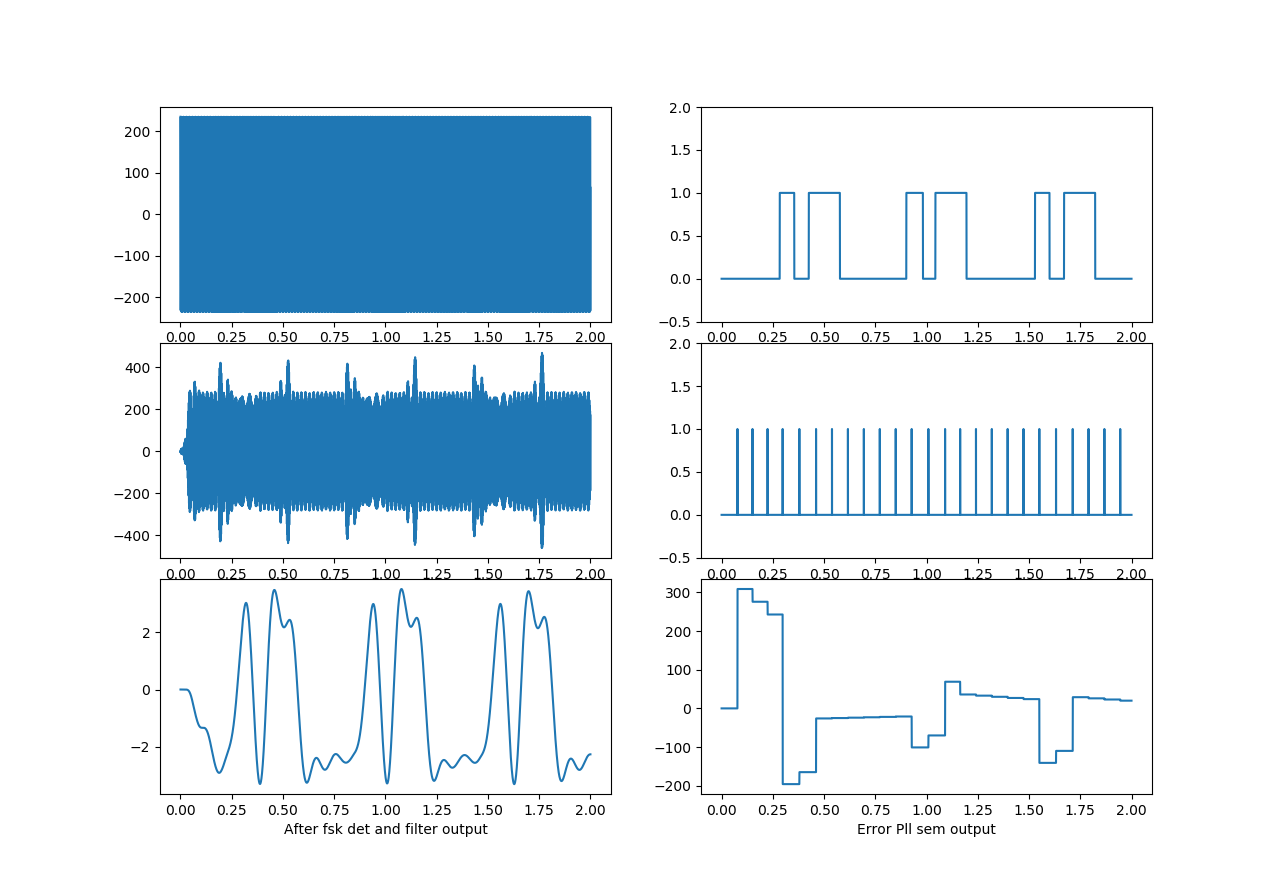
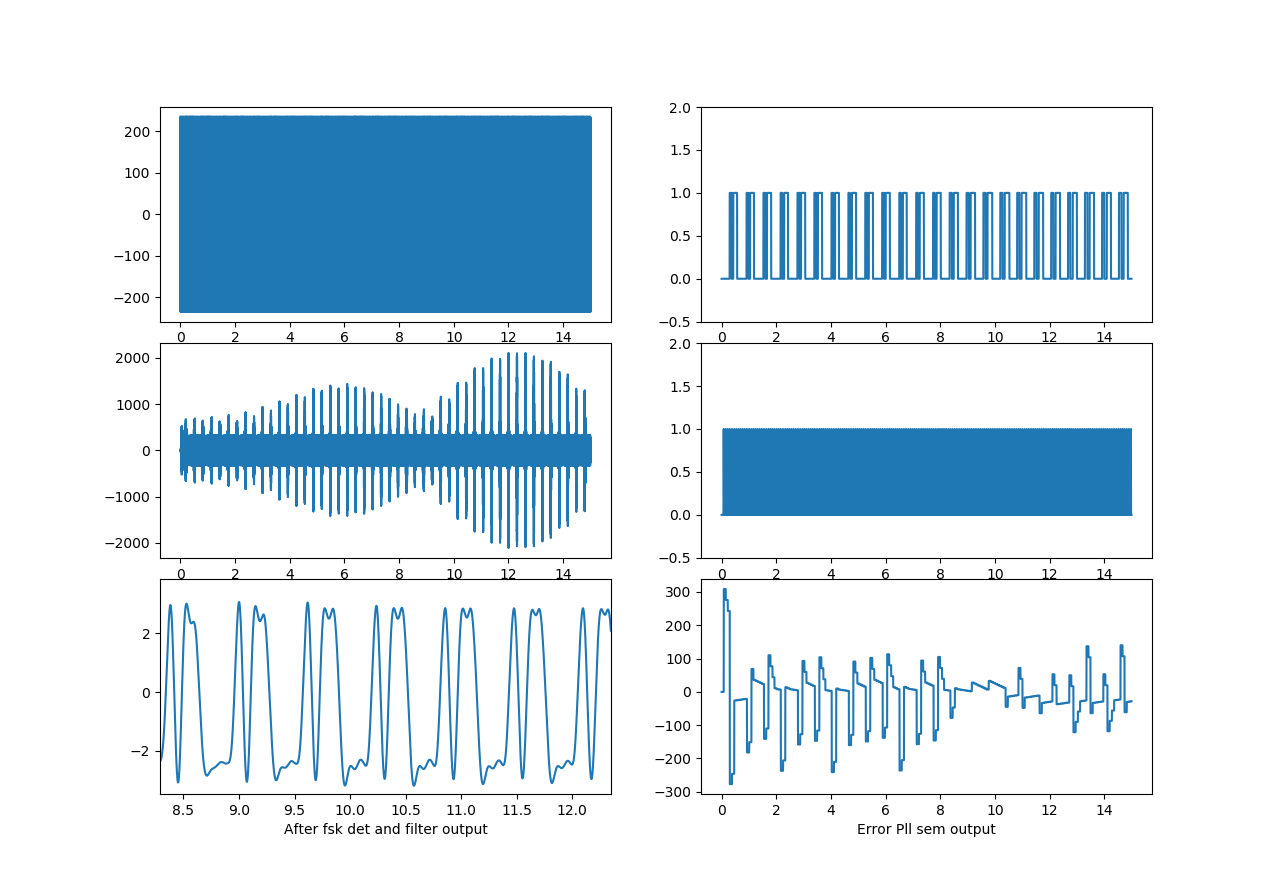
заработал измеритель уровня

diff --git a/coeff.py b/coeff.py
@@ -1,5 +1,3 @@
-h_lpf_1000 = [ -0.0416, -0.0865, 0.0000, 0.2018, 0.3742, 0.3742, 0.2018, 0.0000, -0.0865, -0.0416 ]	#coeff
-
 h_bpf_525 = [-0.0009406690280210321, 0.001030988666678806, 0.0006877051826314363, 0.0004938761755986772, 0.00036539234565545584, 0.00025750815145807247, 0.0001498717552802693, 3.899457114231366e-05, -6.891503933040993e-05, -0.00016162273427714163, -0.00022635420391062082, -0.0002522919622727985, -0.00023435923210231345, -0.0001739004233902038, -8.000465877416353e-05, 3.2708152304568696e-05, 0.00014507147504572637, 0.00023780306941925612, 0.00029358760861096663, 0.00030135745765435184, 0.0002574537732650227, 0.00016753881760579997, 4.526078363926078e-05, -9.002692010233958e-05, -0.0002134183007102509, -0.00030762899976401496, -0.0003483824445812912, -0.00033399778945185365, -0.00026154660272879405, -0.00013998617033988644, 7.855233051716351e-06, 0.0001578666708345268, 0.0002861060506681877, 0.00036994295676018524, 0.000392140912294843, 0.0003473767347716068, 0.00024234646518884757, 9.447420156283759e-05, -7.256094857000851e-05, -0.0002310947760967492, -0.00035423774939062017, -0.00041975615882800747, -0.00041511575135190124, -0.00033946650791485586, -0.0002048975619584545, -3.339613518388166e-05, 0.0001458717288421339, 0.00030292673564907813, 0.00041001375776583194, 0.0004497344329234545, 0.0004127891947480055, 0.00030681743427357156, 0.00014765887870568065, -3.7559326064462266e-05, -0.0002169028607673046, -0.00036066664518625224, -0.0004443345593301432, -0.0004527285355309871, -0.00038497850329678946, -0.0002527793913184419, -7.828267679979551e-05, 0.00010910424168719766, 0.00027703771836456764, 0.0003971575059152439, 0.00044961366954222827, 0.00042644177048492397, 0.00033183510059992894, 0.00018255458475920712, 4.648758166684924e-06, -0.0001710444196296498, -0.0003149056125659054, -0.00040343126891153485, -0.00042266139365564124, -0.0003710302921576035, -0.00025816461532984997, -0.00010546154536073297, 6.0598451502438984e-05, 0.00021117524031746934, 0.0003210439804153598, 0.00037375490126413734, 0.0003621100905510583, 0.0002906254393909703, 0.00017414975775260607, 3.422587242914968e-05, -0.00010446299370023043, -0.00021792281662471311, -0.00028826902577142434, -0.0003061833372646162, -0.0002718677857849578, -0.000194612208805999, -9.100010731380036e-05, 1.883107613198892e-05, 0.00011537176526905295, 0.0001831332647800833, 0.00021269999894121968, 0.0002027739028089379, 0.0001594957042849556, 9.519449741176027e-05, 2.417316533711287e-05, -3.876174469893707e-05, -8.287276810789641e-05, -0.00010188632117093905, -9.616627565984582e-05, -7.211085181479081e-05, -3.919637661626294e-05, -8.445457381368177e-06, 1.0801817314475166e-05, 1.3428914965893206e-05, -8.659139593659385e-07, -2.697342120454218e-05, -5.5141065973965744e-05, -7.424541914405379e-05, -7.452380179141468e-05, -5.004219227233795e-05, -1.0170459740334661e-06, 6.551208758395917e-05, 0.0001367797215916435, 0.00019654647582000766, 0.00022831155797587007, 0.00021887994415805074, 0.00016270252545939608, 6.337271654398031e-05, -6.543849169002628e-05, -0.00020253977682311653, -0.0003213259622476502, -0.00039610679953297717, -0.00040653984686906037, -0.0003425908240869324, -0.00020770497577877545, -1.8967516446003092e-05, 0.0001940946324525579, 0.0003940344543520186, 0.0005427656333854777, 0.0006079633008931047, 0.0005698931803239697, 0.0004263664075598221, 0.0001943537047941373, -9.161946988643253e-05, -0.0003840009805127023, -0.0006308271359286893, -0.0007845567668914983, -0.0008110537298760313, -0.0006965424696710814, -0.00045182380933964637, -0.00011189900197233174, 0.00026919343057733966, 0.0006265700911980985, 0.000895838682720085, 0.0010243988673632393, 0.000981951826961002, 0.0007664600948104746, 0.00040624771755364453, -4.286911392950587e-05, -0.0005069937661575303, -0.0009056810949312508, -0.0011664556767218789, -0.00123768431978923, -0.0010983985425583151, -0.0007636074594548716, -0.0002833996710138696, 0.00026516470997033125, 0.0007897953739454265, 0.0011986650065564824, 0.0014167410502029293, 0.001399437815809782, 0.0011414537701006024, 0.0006792730627119023, 8.57228499239319e-05, -0.0005411775277893971, -0.0010947681511180513, -0.001477405836252663, -0.0016185956866205712, -0.001487333501329742, -0.0010989875257574457, -0.0005132742543241121, 0.0001742617512981398, 0.0008482040459860331, 0.0013930181223541175, 0.0017125480108818138, 0.0017474048997856877, 0.0014860789977856033, 0.0009674529297054366, 0.00027543464219324234, -0.000474959819888891, -0.001156783077327793, -0.001652601965380396, -0.001875234904721846, -0.0017833740454897824, -0.0013886199688957373, -0.0007546130673952072, 1.3345494503242284e-05, 0.0007860567493804323, 0.001432261778639689, 0.0018413142257421222, 0.001942111906705399, 0.0017159217900606445, 0.0011995021014319439, 0.0004794576436570909, -0.00032270500354103374, -0.001071235973309277, -0.0016394674056043135, -0.001931417246028124, -0.0018978986943619558, -0.0015455982767047188, -0.0009354642775174921, -0.0001718832724952623, 0.0006150688219870278, 0.0012922913839846994, 0.001746447398178726, 0.001903059891171819, 0.0017391578782733842, 0.0012865569824882302, 0.0006255811730751465, -0.00012889501024174513, -0.0008481148546950253, -0.001411642131680924, -0.0017275385904133914, -0.001747933025496071, -0.001476335780800326, -0.0009660609771597575, -0.0003095063017206981, 0.00037843900036026753, 0.0009809117625374703, 0.0013992150773238963, 0.0015693167593990396, 0.0014719681709355502, 0.0011342912376713754, 0.0006237417302165779, 3.430220155848664e-05, -0.0005305973872484259, -0.0009765625399134423, -0.0012346912231889686, -0.0012723318034931121, -0.0010966857741894719, -0.000751846774156418, -0.0003086465336449699, 0.0001495545746114104, 0.0005427002470424595, 0.0008086401686167061, 0.0009131209358470703, 0.0008538692455495847, 0.0006590822251734741, 0.00037910839784274114, 7.528717531678111e-05, -0.00019330651484501132, -0.0003811571960549451, -0.0004649383289435083, -0.00044603418475929954, -0.0003480578826758978, -0.00020951554498745053, -7.37258631488141e-05, 2.2056370237893844e-05, 5.584079911950357e-05, 2.5842666219209887e-05, -4.957960828254229e-05, -0.00013667971405966753, -0.00019575244252620404, -0.0001915902951493138, -0.00010375570699470353, 6.594639328631573e-05, 0.00029125486753820177, 0.0005254735307162032, 0.0007099916870738335, 0.0007874624439792738, 0.0007155199071447571, 0.0004788764463692324, 9.687031077581544e-05, -0.0003764390937634988, -0.0008591500119734484, -0.00125524693525484, -0.0014729389220174806, -0.0014442960931925113, -0.0011418362751141322, -0.0005884683084261262, 0.00014123395252107866, 0.0009304553281345661, 0.0016382822949885534, 0.0021247083859555734, 0.0022771186238237963, 0.0020344658399337433, 0.001403642850752356, 0.0004639222962092241, -0.0006417320046646624, -0.00172769195015883, -0.002596850057255322, -0.0030757921091641494, -0.003048247068680944, -0.002480938201473811, -0.0014353727540801847, -6.31169241966979e-05, 0.0014150778072855286, 0.002744844109634926, 0.0036813396936121855, 0.004034185445693639, 0.0037048064127674666, 0.002709588726724434, 0.001183593448935531, -0.0006364426510182794, -0.0024484338507099798, -0.003935150461000843, -0.004819348863399439, -0.0049149177879118135, -0.004164352526880832, -0.0026555652689977845, -0.0006135422897411727, 0.0016327723253179165, 0.0037030657396181273, 0.005230017878654522, 0.005924435103980721, 0.005629022682731594, 0.004351638984824035, 0.0022713267931016574, -0.00028603387214644815, -0.0028984068421345354, -0.005117059322547557, -0.006544077628966117, -0.006902953902022928, -0.006091513870713025, -0.00420597458440735, -0.0015317079817549768, 0.0014995283105953968, 0.0043792333304304345, 0.006607644179588601, 0.007780340416510343, 0.007661233547821895, 0.006229048457007684, 0.0036878207828329934, 0.0004385864610034367, -0.0029836930887104274, -0.0059983340352373895, -0.00807739267407933, -0.00883844051144782, -0.008114323623650322, -0.005987820173987199, -0.002784336294589293, 0.0009773179135405111, 0.004669466339935768, 0.007660121615658299, 0.009421492707436687, 0.009623310813651545, 0.0081938572856073, 0.0053386416235438865, 0.001511524087553651, -0.0026574345820723974, -0.0064657716269365915, -0.009257451060824307, -0.010536017138158573, -0.010052975384310789, -0.007855078176402654, -0.004282400732102743, 8.429231134619993e-05, 0.0045177974275138885, 0.008266082524279378, 0.010680244183003115, 0.011327165929614707, 0.010066986442468118, 0.007081873626484879, 0.002850303655204316, -0.0019295003893524784, -0.006455422041861799, -0.009956469309205265, -0.011824256333516822, -0.011719089664507442, -0.00963181249028059, -0.005889306435167585, -0.0011039701593332715, 0.003927202516290899, 0.008355622533241796, 0.01142480093393603, 0.012599954178190868, 0.01166143146085803, 0.008745377598640537, 0.0043244612260162265, -0.0008689594256425026, -0.005964589285631279, -0.01010052770560613, -0.012569585341644512, -0.012940679180918877, -0.011134140207852132, -0.007438235362049703, -0.0024629099670725714, 0.0029611427176058185, 0.007921772704966558, 0.011579208127906478, 0.01330879399678175, 0.012808026828130354, 0.010149871825220888, 0.005771975618512235, 0.00040420290594081086, -0.0050529564618197334, -0.009680486543728646, -0.01269606061595963, -0.013586739610810368, -0.012196687847271478, -0.008754383179382215, -0.003834996317813393, 0.0017361239449592654, 0.007022440498111838, 0.011134359841366213, 0.013379406461555403, 0.013379406461555403, 0.011134359841366213, 0.007022440498111838, 0.0017361239449592654, -0.003834996317813393, -0.008754383179382215, -0.012196687847271478, -0.013586739610810368, -0.01269606061595963, -0.009680486543728646, -0.0050529564618197334, 0.00040420290594081086, 0.005771975618512235, 0.010149871825220888, 0.012808026828130354, 0.01330879399678175, 0.011579208127906478, 0.007921772704966558, 0.0029611427176058185, -0.0024629099670725714, -0.007438235362049703, -0.011134140207852132, -0.012940679180918877, -0.012569585341644512, -0.01010052770560613, -0.005964589285631279, -0.0008689594256425026, 0.0043244612260162265, 0.008745377598640537, 0.01166143146085803, 0.012599954178190868, 0.01142480093393603, 0.008355622533241796, 0.003927202516290899, -0.0011039701593332715, -0.005889306435167585, -0.00963181249028059, -0.011719089664507442, -0.011824256333516822, -0.009956469309205265, -0.006455422041861799, -0.0019295003893524784, 0.002850303655204316, 0.007081873626484879, 0.010066986442468118, 0.011327165929614707, 0.010680244183003115, 0.008266082524279378, 0.0045177974275138885, 8.429231134619993e-05, -0.004282400732102743, -0.007855078176402654, -0.010052975384310789, -0.010536017138158573, -0.009257451060824307, -0.0064657716269365915, -0.0026574345820723974, 0.001511524087553651, 0.0053386416235438865, 0.0081938572856073, 0.009623310813651545, 0.009421492707436687, 0.007660121615658299, 0.004669466339935768, 0.0009773179135405111, -0.002784336294589293, -0.005987820173987199, -0.008114323623650322, -0.00883844051144782, -0.00807739267407933, -0.0059983340352373895, -0.0029836930887104274, 0.0004385864610034367, 0.0036878207828329934, 0.006229048457007684, 0.007661233547821895, 0.007780340416510343, 0.006607644179588601, 0.0043792333304304345, 0.0014995283105953968, -0.0015317079817549768, -0.00420597458440735, -0.006091513870713025, -0.006902953902022928, -0.006544077628966117, -0.005117059322547557, -0.0028984068421345354, -0.00028603387214644815, 0.0022713267931016574, 0.004351638984824035, 0.005629022682731594, 0.005924435103980721, 0.005230017878654522, 0.0037030657396181273, 0.0016327723253179165, -0.0006135422897411727, -0.0026555652689977845, -0.004164352526880832, -0.0049149177879118135, -0.004819348863399439, -0.003935150461000843, -0.0024484338507099798, -0.0006364426510182794, 0.001183593448935531, 0.002709588726724434, 0.0037048064127674666, 0.004034185445693639, 0.0036813396936121855, 0.002744844109634926, 0.0014150778072855286, -6.31169241966979e-05, -0.0014353727540801847, -0.002480938201473811, -0.003048247068680944, -0.0030757921091641494, -0.002596850057255322, -0.00172769195015883, -0.0006417320046646624, 0.0004639222962092241, 0.001403642850752356, 0.0020344658399337433, 0.0022771186238237963, 0.0021247083859555734, 0.0016382822949885534, 0.0009304553281345661, 0.00014123395252107866, -0.0005884683084261262, -0.0011418362751141322, -0.0014442960931925113, -0.0014729389220174806, -0.00125524693525484, -0.0008591500119734484, -0.0003764390937634988, 9.687031077581544e-05, 0.0004788764463692324, 0.0007155199071447571, 0.0007874624439792738, 0.0007099916870738335, 0.0005254735307162032, 0.00029125486753820177, 6.594639328631573e-05, -0.00010375570699470353, -0.0001915902951493138, -0.00019575244252620404, -0.00013667971405966753, -4.957960828254229e-05, 2.5842666219209887e-05, 5.584079911950357e-05, 2.2056370237893844e-05, -7.37258631488141e-05, -0.00020951554498745053, -0.0003480578826758978, -0.00044603418475929954, -0.0004649383289435083, -0.0003811571960549451, -0.00019330651484501132, 7.528717531678111e-05, 0.00037910839784274114, 0.0006590822251734741, 0.0008538692455495847, 0.0009131209358470703, 0.0008086401686167061, 0.0005427002470424595, 0.0001495545746114104, -0.0003086465336449699, -0.000751846774156418, -0.0010966857741894719, -0.0012723318034931121, -0.0012346912231889686, -0.0009765625399134423, -0.0005305973872484259, 3.430220155848664e-05, 0.0006237417302165779, 0.0011342912376713754, 0.0014719681709355502, 0.0015693167593990396, 0.0013992150773238963, 0.0009809117625374703, 0.00037843900036026753, -0.0003095063017206981, -0.0009660609771597575, -0.001476335780800326, -0.001747933025496071, -0.0017275385904133914, -0.001411642131680924, -0.0008481148546950253, -0.00012889501024174513, 0.0006255811730751465, 0.0012865569824882302, 0.0017391578782733842, 0.001903059891171819, 0.001746447398178726, 0.0012922913839846994, 0.0006150688219870278, -0.0001718832724952623, -0.0009354642775174921, -0.0015455982767047188, -0.0018978986943619558, -0.001931417246028124, -0.0016394674056043135, -0.001071235973309277, -0.00032270500354103374, 0.0004794576436570909, 0.0011995021014319439, 0.0017159217900606445, 0.001942111906705399, 0.0018413142257421222, 0.001432261778639689, 0.0007860567493804323, 1.3345494503242284e-05, -0.0007546130673952072, -0.0013886199688957373, -0.0017833740454897824, -0.001875234904721846, -0.001652601965380396, -0.001156783077327793, -0.000474959819888891, 0.00027543464219324234, 0.0009674529297054366, 0.0014860789977856033, 0.0017474048997856877, 0.0017125480108818138, 0.0013930181223541175, 0.0008482040459860331, 0.0001742617512981398, -0.0005132742543241121, -0.0010989875257574457, -0.001487333501329742, -0.0016185956866205712, -0.001477405836252663, -0.0010947681511180513, -0.0005411775277893971, 8.57228499239319e-05, 0.0006792730627119023, 0.0011414537701006024, 0.001399437815809782, 0.0014167410502029293, 0.0011986650065564824, 0.0007897953739454265, 0.00026516470997033125, -0.0002833996710138696, -0.0007636074594548716, -0.0010983985425583151, -0.00123768431978923, -0.0011664556767218789, -0.0009056810949312508, -0.0005069937661575303, -4.286911392950587e-05, 0.00040624771755364453, 0.0007664600948104746, 0.000981951826961002, 0.0010243988673632393, 0.000895838682720085, 0.0006265700911980985, 0.00026919343057733966, -0.00011189900197233174, -0.00045182380933964637, -0.0006965424696710814, -0.0008110537298760313, -0.0007845567668914983, -0.0006308271359286893, -0.0003840009805127023, -9.161946988643253e-05, 0.0001943537047941373, 0.0004263664075598221, 0.0005698931803239697, 0.0006079633008931047, 0.0005427656333854777, 0.0003940344543520186, 0.0001940946324525579, -1.8967516446003092e-05, -0.00020770497577877545, -0.0003425908240869324, -0.00040653984686906037, -0.00039610679953297717, -0.0003213259622476502, -0.00020253977682311653, -6.543849169002628e-05, 6.337271654398031e-05, 0.00016270252545939608, 0.00021887994415805074, 0.00022831155797587007, 0.00019654647582000766, 0.0001367797215916435, 6.551208758395917e-05, -1.0170459740334661e-06, -5.004219227233795e-05, -7.452380179141468e-05, -7.424541914405379e-05, -5.5141065973965744e-05, -2.697342120454218e-05, -8.659139593659385e-07, 1.3428914965893206e-05, 1.0801817314475166e-05, -8.445457381368177e-06, -3.919637661626294e-05, -7.211085181479081e-05, -9.616627565984582e-05, -0.00010188632117093905, -8.287276810789641e-05, -3.876174469893707e-05, 2.417316533711287e-05, 9.519449741176027e-05, 0.0001594957042849556, 0.0002027739028089379, 0.00021269999894121968, 0.0001831332647800833, 0.00011537176526905295, 1.883107613198892e-05, -9.100010731380036e-05, -0.000194612208805999, -0.0002718677857849578, -0.0003061833372646162, -0.00028826902577142434, -0.00021792281662471311, -0.00010446299370023043, 3.422587242914968e-05, 0.00017414975775260607, 0.0002906254393909703, 0.0003621100905510583, 0.00037375490126413734, 0.0003210439804153598, 0.00021117524031746934, 6.0598451502438984e-05, -0.00010546154536073297, -0.00025816461532984997, -0.0003710302921576035, -0.00042266139365564124, -0.00040343126891153485, -0.0003149056125659054, -0.0001710444196296498, 4.648758166684924e-06, 0.00018255458475920712, 0.00033183510059992894, 0.00042644177048492397, 0.00044961366954222827, 0.0003971575059152439, 0.00027703771836456764, 0.00010910424168719766, -7.828267679979551e-05, -0.0002527793913184419, -0.00038497850329678946, -0.0004527285355309871, -0.0004443345593301432, -0.00036066664518625224, -0.0002169028607673046, -3.7559326064462266e-05, 0.00014765887870568065, 0.00030681743427357156, 0.0004127891947480055, 0.0004497344329234545, 0.00041001375776583194, 0.00030292673564907813, 0.0001458717288421339, -3.339613518388166e-05, -0.0002048975619584545, -0.00033946650791485586, -0.00041511575135190124, -0.00041975615882800747, -0.00035423774939062017, -0.0002310947760967492, -7.256094857000851e-05, 9.447420156283759e-05, 0.00024234646518884757, 0.0003473767347716068, 0.000392140912294843, 0.00036994295676018524, 0.0002861060506681877, 0.0001578666708345268, 7.855233051716351e-06, -0.00013998617033988644, -0.00026154660272879405, -0.00033399778945185365, -0.0003483824445812912, -0.00030762899976401496, -0.0002134183007102509, -9.002692010233958e-05, 4.526078363926078e-05, 0.00016753881760579997, 0.0002574537732650227, 0.00030135745765435184, 0.00029358760861096663, 0.00023780306941925612, 0.00014507147504572637, 3.2708152304568696e-05, -8.000465877416353e-05, -0.0001739004233902038, -0.00023435923210231345, -0.0002522919622727985, -0.00022635420391062082, -0.00016162273427714163, -6.891503933040993e-05, 3.899457114231366e-05, 0.0001498717552802693, 0.00025750815145807247, 0.00036539234565545584, 0.0004938761755986772, 0.0006877051826314363, 0.001030988666678806, -0.0009406690280210321]
 
 h_lpf_30 = [0.14477664859909356, 0.002750262050451452, 0.002775926321660932, 0.0028019632831151053, 0.002827807813057276, 0.0028551956023380454, 0.0028838030202704423, 0.0029109372793628407, 0.0029412622341622174, 0.0029740722637691397, 0.0030069983952361046, 0.0030461590639190295, 0.003089725232064605, 0.0031375540480578223, 0.0031922036281808452, 0.00325457267186105, 0.002955573012199092, 0.003177315012678511, 0.003201244585031876, 0.0032250124913248135, 0.0032497123636949232, 0.0032737377997161254, 0.0032971156604827967, 0.003323090452776012, 0.0033481375216726506, 0.0033714180479677003, 0.0033974304677147626, 0.0034183875963233745, 0.003435127220697526, 0.0034473069398553435, 0.0034509158312307775, 0.003442461111729106, 0.0035516057286533176, 0.0035336588780690015, 0.0035545165848044347, 0.003575726630489745, 0.0035958816176077657, 0.0036164427898728313, 0.0036377911083168013, 0.003656380347177357, 0.003674118896716372, 0.0036933429442463084, 0.0037064509170703086, 0.0037219725166443562, 0.0037395948822838143, 0.0037595292382515966, 0.003786588150628656, 0.003826907629463361, 0.003806812892154038, 0.0038373094225191418, 0.0038547381937520664, 0.0038711228275688236, 0.003887948145230413, 0.003903751368644154, 0.003917425896110438, 0.003932205206496592, 0.003947713196433694, 0.003959347974914484, 0.0039784150013470465, 0.003996114224358138, 0.00401252989663145, 0.004028178013061129, 0.004038378508541551, 0.004034932333773472, 0.004067104153865131, 0.004074144630948767, 0.0040855365669413835, 0.0040971828285580325, 0.0041074387383312205, 0.004117608869984329, 0.004129542607088671, 0.004140797000910967, 0.004150191412864379, 0.004166007713319292, 0.004172786780128168, 0.004179515973857906, 0.004186424578075776, 0.0041920184233660285, 0.0041999737180407615, 0.004219595422317535, 0.004215478470088518, 0.004224022418953588, 0.004230608291199728, 0.004236301817250238, 0.004243065882452768, 0.0042501006517578765, 0.004255117335052155, 0.004259560686671604, 0.0042667809554629565, 0.004262786638887517, 0.004267851041923482, 0.0042726788467104815, 0.00427626707098594, 0.004280786517873142, 0.004283969593256026, 0.004276273977477679, 0.004284194328007307, 0.004285089362897149, 0.004286186071837256, 0.004287872287392913, 0.004287872287392913, 0.004286186071837256, 0.004285089362897149, 0.004284194328007307, 0.004276273977477679, 0.004283969593256026, 0.004280786517873142, 0.00427626707098594, 0.0042726788467104815, 0.004267851041923482, 0.004262786638887517, 0.0042667809554629565, 0.004259560686671604, 0.004255117335052155, 0.0042501006517578765, 0.004243065882452768, 0.004236301817250238, 0.004230608291199728, 0.004224022418953588, 0.004215478470088518, 0.004219595422317535, 0.0041999737180407615, 0.0041920184233660285, 0.004186424578075776, 0.004179515973857906, 0.004172786780128168, 0.004166007713319292, 0.004150191412864379, 0.004140797000910967, 0.004129542607088671, 0.004117608869984329, 0.0041074387383312205, 0.0040971828285580325, 0.0040855365669413835, 0.004074144630948767, 0.004067104153865131, 0.004034932333773472, 0.004038378508541551, 0.004028178013061129, 0.00401252989663145, 0.003996114224358138, 0.0039784150013470465, 0.003959347974914484, 0.003947713196433694, 0.003932205206496592, 0.003917425896110438, 0.003903751368644154, 0.003887948145230413, 0.0038711228275688236, 0.0038547381937520664, 0.0038373094225191418, 0.003806812892154038, 0.003826907629463361, 0.003786588150628656, 0.0037595292382515966, 0.0037395948822838143, 0.0037219725166443562, 0.0037064509170703086, 0.0036933429442463084, 0.003674118896716372, 0.003656380347177357, 0.0036377911083168013, 0.0036164427898728313, 0.0035958816176077657, 0.003575726630489745, 0.0035545165848044347, 0.0035336588780690015, 0.0035516057286533176, 0.003442461111729106, 0.0034509158312307775, 0.0034473069398553435, 0.003435127220697526, 0.0034183875963233745, 0.0033974304677147626, 0.0033714180479677003, 0.0033481375216726506, 0.003323090452776012, 0.0032971156604827967, 0.0032737377997161254, 0.0032497123636949232, 0.0032250124913248135, 0.003201244585031876, 0.003177315012678511, 0.002955573012199092, 0.00325457267186105, 0.0031922036281808452, 0.0031375540480578223, 0.003089725232064605, 0.0030461590639190295, 0.0030069983952361046, 0.0029740722637691397, 0.0029412622341622174, 0.0029109372793628407, 0.0028838030202704423, 0.0028551956023380454, 0.002827807813057276, 0.0028019632831151053, 0.002775926321660932, 0.002750262050451452, 0.14477664859909356]

diff --git a/main.py b/main.py
@@ -1,43 +1,74 @@
 from prepare_signal import *
 from plot import *
+import matplotlib.pyplot as plt
+import numpy as np
+from scipy import fft, arange
 
 #--------------------------------------
 for i in range(sim_point):
 
-	sample = input_signal_buf[i]
-	new_sample = True
+    sample = input_signal_buf[i]
+    new_sample = True
 
 #-----main-cycle-------------------------------------------------------------
-	if new_sample == True:
-	
-		temp1 = chan_fir.proc(sample)	# filtered signal
-		filter_buf.append(temp1)
+    if new_sample == True:
 
-		temp2 = limiter_in.proc(temp1)	# signal after limiter
-		limiter_buf.append(temp2)
+        temp1 = chan_fir.proc(sample)    # filtered signal
+        filter_buf.append(temp1)
+        
+        temp13 = lev_met.proc(temp1)     # level meter
+        lev_met_buf.append(temp13)
 
-		temp3 = det.proc(temp2)			# signal after fsk det
-		fsk_det_buf.append(temp3)
+        temp2 = limiter_in.proc(temp1)    # signal after limiter
+        limiter_buf.append(temp2)
 
-		temp4 = det_iir.filter(temp3)	# signal after fsk det filter
-		fsk_det_flt_buf.append(temp4)
+        temp3 = det.proc(temp2)            # signal after fsk det
+        fsk_det_buf.append(temp3)
 
-		temp5 = comp_det.proc(temp4)	# signal after comparator
-		comp_buf.append(temp5)
+        temp4 = det_iir.filter(temp3)    # signal after fsk det filter
+        fsk_det_flt_buf.append(temp4)
 
-		sync,err,bit = sem_pll.proc(temp5)	#signal after pll
-		sem_pll_buf.append(sync)
-		sem_pll_err_buf.append(err)
+        temp5 = comp_det.proc(temp4)    # signal after comparator
+        comp_buf.append(temp5)
 
-		if sync == 1:
-			temp12 = decoder1.proc(bit)		#signal after decoder
-		else:
-			pass
+        sync,err,bit = sem_pll.proc(temp5)    #signal after pll
+        sem_pll_buf.append(sync)
+        sem_pll_err_buf.append(err)
 
-		new_sample = False
+        if sync == 1:
+            temp12 = decoder1.proc(bit)        #signal after decoder
+        else:
+            pass
+
+        new_sample = False
 
 #-----plot-results-----------------------------------------------------------
-plot (signal_buf,filter_buf,fsk_det_flt_buf,comp_buf,sem_pll_buf,sem_pll_err_buf)
+plot (signal_buf,filter_buf,lev_met_buf,comp_buf,sem_pll_buf,sem_pll_err_buf)
+#plot (signal_buf,filter_buf,fsk_det_buf,comp_buf,sem_pll_buf,sem_pll_err_buf)
+plt.show() #lev_met_buf
 
-plt.show()
+def plotSpectrum(y,Fs):
+    n = len(input_signal_buf) # length of the signal
+    k = np.arange(n)
+    T = n/Fs
+    frq = k/T # two sides frequency range
+    frq = frq[range(n//2)] # one side frequency range
+
+    Y = fft(y)/n # fft computing and normalization
+    Y = Y[range(n//2)]
+ 
+    plt.plot(frq,abs(Y),'r') # plotting the spectrum
+    plt.xlabel('Freq (Hz)')
+    plt.ylabel('|Y(freq)|')
+
+#Fs=fs
+#y=input_signal_buf
+
+#plt.subplot(2,1,1)
+#plt.plot(t,y)
+#plt.xlabel('Time')
+#plt.ylabel('Amplitude')
+#plt.subplot(2,1,2)
+#plotSpectrum(y,Fs)
+#plt.show()
 #----------------------------------------------------------------------------

diff --git a/prepare_signal.py b/prepare_signal.py
@@ -9,23 +9,27 @@ from white_noise_gen import *
 from code import*
 from IIR2Filter import *
 from decode import *
+from level_meter import*
 
 noise1 = white_noise(0)
-fsk1 = fsk_gen(525,235*1,0x2c)	# source fsk signal
-fsk2 = fsk_gen(475,235*5,0x3c)	# interference fsk signal 1
-fsk3 = fsk_gen(575,235*5,0x3c)	# interference fsk signal 2
-limiter_in = limiter (-2,2)	# input limiter
-chan_fir = fir(h_bpf_525)	#.channel filter
-det = fsk_det(19.55)		# fsk detector #19.55@525
+fsk1 = fsk_gen(525,235*1,0x2c)    # source fsk signal
+fsk2 = fsk_gen(475,235*5,0x3c)    # interference fsk signal 1
+fsk3 = fsk_gen(575,235*1,0x3c)    # interference fsk signal 2
+limiter_in = limiter (-2,2)    # input limiter
+chan_fir = fir(h_bpf_525)    #.channel filter
+det = fsk_det(19.55)        # fsk detector #19.55@525
 det_iir = IIR2Filter(4, [10], 'low',design='cheby1',rs = 2, fs=fs)
+
 comp_det = comparator(-0.1,0.1, 1)# comparator after fsk detector filter
 sem_pll = pll2(1)
 decoder1 = decode()
+lev_met = level_meter()
 
 noise_buf         =  []
 signal_buf        =  []
 signal2_buf       =  []
 filter_buf        =  []
+lev_met_buf       =  []
 limiter_buf       =  []
 fsk_det_buf       =  []
 fsk_det_flt_buf   =  []
@@ -34,18 +38,18 @@ sem_pll_buf       =  []
 sem_pll_err_buf   =  []
 input_signal_buf  =  []
 
-
 for i in range(sim_point):
 #--Preparing input signal + noise------------------------------------
-	fsk_signal = fsk1.proc_signal(i)
-	signal_buf.append(fsk_signal)
-	
-	fsk_int_1  = fsk2.proc_signal(i)
-	
-	fsk_int_2  = fsk3.proc_signal(i)
-	
-	noise = noise1.proc(i)		# noise
-	noise_buf.append(noise)
+    fsk_signal = fsk1.proc_signal(i)
+    signal_buf.append(fsk_signal)
+    
+    fsk_int_1  = fsk2.proc_signal(i)
+    
+    fsk_int_2  = fsk3.proc_signal(i)
+    
+    noise = noise1.proc(i)        # noise
+    noise_buf.append(noise)
 
-	input_signal = 1*fsk_signal + 1*fsk_int_1 + 1*fsk_int_2 + 1*noise
-	input_signal_buf.append(input_signal)
+    input_signal = 1*fsk_signal + 1*fsk_int_1 + 1*fsk_int_2 + 1*noise
+    input_signal_buf.append(input_signal)
+

diff --git a/level_meter.py b/level_meter.py
@@ -1,0 +1,39 @@
+from const import *
+from prepare_signal import*
+from IIR2Filter import *
+
+class level_meter(object):
+
+    def __init__(self):
+        """initialization"""
+        self.Fcar = 525 # несущая КРЛ
+        self.fs = fs
+        self.A = 1
+        self.k = 2 * np.cos(2 * np.pi * self.Fcar / self.fs)
+        self.X0_0 = 0
+        self.X1_0 = 0
+        self.X2_0 = self.A * np.sin(2 * np.pi * self.Fcar / self.fs)
+        self.cycle_count = 0
+        self.lm_iir = IIR2Filter(8, [5], 'low',design='cheby1',rs = 2, fs=fs)
+
+    def local_gen(self,t):
+        '''Локальный генератор sin'''
+        self.cycle_count = self.cycle_count + 1
+        self.X0_0 = self.k*self.X1_0-self.X2_0
+        y_0 = self.X0_0
+        self.X2_0 = self.X1_0
+        self.X1_0 = self.X0_0
+
+        return y_0
+
+    def proc(self, sample):
+        """ Измерение уровня входного сигнала"""
+
+        sig = sample*self.local_gen(t)
+        sig = abs(sig)
+
+        f_out = self.lm_iir.filter(sig)
+
+        return f_out
+
+

diff --git a/plot.py b/plot.py
@@ -2,7 +2,7 @@ import matplotlib.pyplot as plt
 import numpy as np
 from const import *
 
-def plot (signal_buf,filter_buf,fsk_det_flt_buf,comp_buf,sem_pll_buf,sem_pll_err_buf):
+def plot (signal_buf,filter_buf,lev_met_buf,comp_buf,sem_pll_buf,sem_pll_err_buf):
 
 	fig, axs = plt.subplots(3, 2)
 	fig.subplots_adjust(hspace=0.1)
@@ -14,9 +14,9 @@ def plot (signal_buf,filter_buf,fsk_det_flt_buf,comp_buf,sem_pll_buf,sem_pll_err
 	#axs[1,0].plot(t, limiter_buf)
 	axs[1,0].set_xlabel('After channel filter output')
 
-	axs[2,0].plot(t, fsk_det_flt_buf)
+	axs[2,0].plot(t, lev_met_buf)
 	#axs[2,0].plot(t, fsk_det_buf)
-	axs[2,0].set_xlabel('After fsk det and filter output')
+	axs[2,0].set_xlabel('Измеритель амплитудного канала')
 
 	axs[0,1].plot(t, comp_buf)
 	axs[0,1].set_ylim(-0.5, 2)

diff --git a/const.py b/const.py
@@ -3,7 +3,7 @@ import numpy as np
 #--------------------------------------
 fs = 8000	# sample freq in Hz
 fn = fs/2
-t_sim = 2 	# Simulation time in sec
+t_sim = 5 	# Simulation time in sec
 fmod    = 12.897	 # Modulation freq in Hz (Bod)
 fsignal = 1475	 # Generator freq in Hz
 #--------------------------------------
